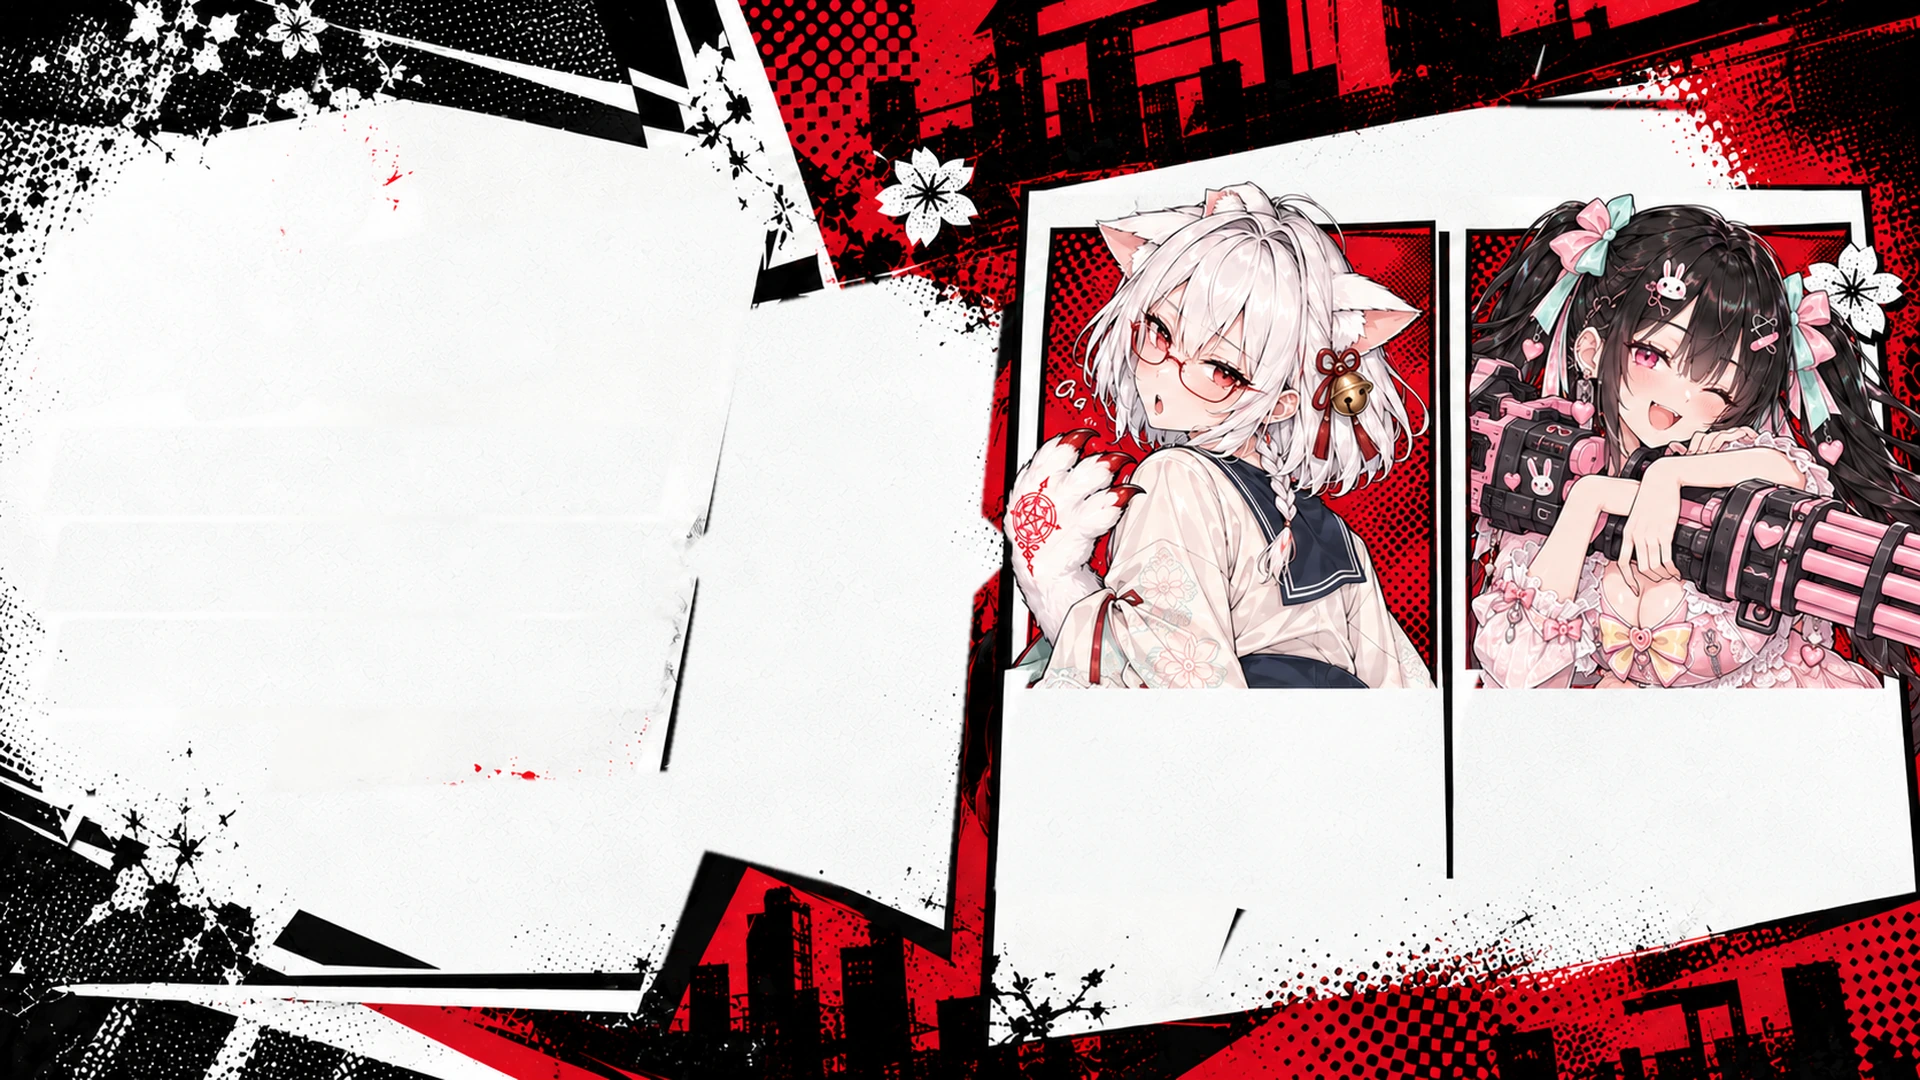
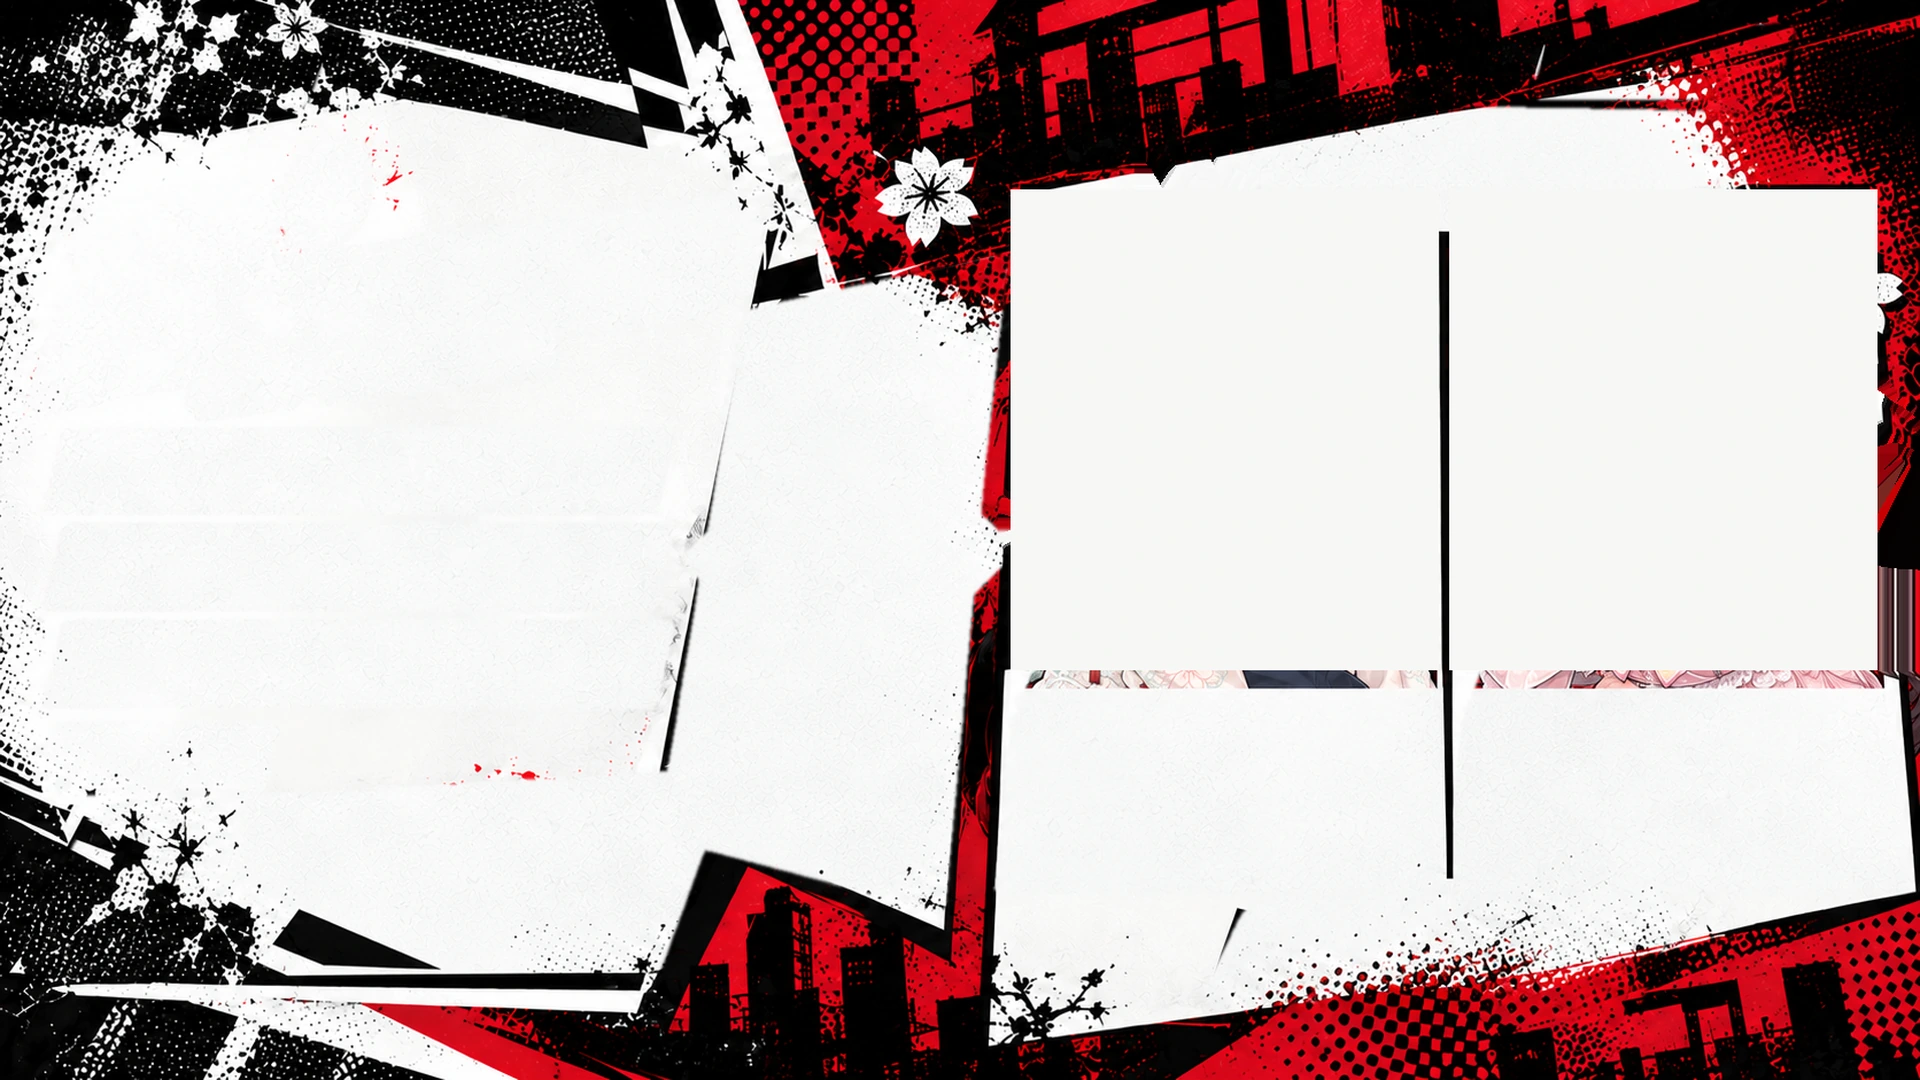
第九批前几项：选关换位不露底图头像、设置说法和音乐/音效、必杀 OK 提示、必杀指哪打哪
- 选关底图 sel_plate 去掉烤进去的两人头像（r20_import.py plate：窗口涂纸白，伸出部分补底色）
- 设置：「2P 由谁来打：AI 代打 / 手柄玩家 / 键盘玩家 / 不上场（单人）」，音量拆成总音量、音乐、音效
- 必杀好了：头像环上方盖章「必杀 OK!」+ 按键，第一次弹右键教学；AI 2P 不显示
- 必杀期间自动开火、镭射紧跟鼠标（cat active.aim 16）
- 文档 DESIGN / PLAN / LOG

Changed region(s): [[0.5, 0.1528, 1.0, 0.6417]]

diff --git a/src/ui/glhud.js b/src/ui/glhud.js
@@ -12,6 +12,7 @@ import { Stickers } from './stickers.js';
 import { Space } from './space.js';
 import { Hold } from './hold.js';
 import { Alerts } from './alerts.js';
+import { sfx } from '../core/audio.js';
 import { SIGNS, ledCanvas } from './ledsign.js';
 
 const VERT = 'varying vec2 vUv; void main(){ vUv = uv; gl_Position = projectionMatrix * modelViewMatrix * vec4(position, 1.0); }';
@@ -215,6 +216,9 @@ class Panel {
       tag: new Text(65), name: new Text(65), lv: new Text(65), hp: new Text(65, { sw: 0.12 }),
       key: new Text(65, { color: '#121012', stroke: null, italic: false }), ammo: new Text(65, { shadow: '#d8141e', sw: 0.14 }), ammoMax: new Text(65, { sw: 0.14 }),
     };
+    // her special is ready: a badge stamped over her ring until she uses it (DESIGN「必杀」: you must see it at once)
+    this.rdy = new Text(66, { color: '#ffffff', shadow: '#d8141e', sw: 0.16 }); this.rdyK = new Text(66, { color: '#fff36a', sw: 0.18 });
+    this.rdy.m.visible = this.rdyK.m.visible = false; this.rdyT = 0; this.wasReady = false;
     // Fever: three gauges of six segments, each with its icon, label and level
     this.fv = FEVER_KEYS.map((k, i) => {
       const F = D.fever[i], c = new THREE.Color(B.colors.fever[k]);
@@ -236,7 +240,7 @@ class Panel {
       for (let i = 0; i < n; i++) this.ticks.push(picture(this.tali.ready, 63, i * 0.21));
     }
     for (const m of [this.layer, this.face, this.ring, this.hp, this.heart, this.ammoIcon, ...this.ticks, ...Object.values(this.t).map((x) => x.m),
-      ...this.fv.flatMap((f) => [f.icon, ...f.segs, f.label.m, f.lv.m])]) if (m) g.add(m);
+      ...this.fv.flatMap((f) => [f.icon, ...f.segs, f.label.m, f.lv.m]), this.rdy.m, this.rdyK.m]) if (m) g.add(m);
     this.last = {}; this.lag = 1; this.shake = 0; this.faceKey = ''; this.faceT = 0; this.faceHold = 0; this.event = null; this.lastCombo = 0;
   }
   who() { return this.cat ? 'cat' : 'pink'; }
@@ -307,6 +311,23 @@ class Panel {
     // skill ring
     const RU = this.ring.material.uniforms;
     RU.fill.value = p.activeOn ? p.activeT / p.a.dur : p.charge; RU.time.value = t; RU.full.value = p.charge >= 1 && !p.activeOn ? 1 : 0; RU.on.value = p.activeOn ? 1 : 0;
+    // the ready badge (a player's girl only: the AI fires hers by herself): stamped in with a sound, then it keeps bouncing
+    const kind = p.ctrl?.kind, ready = p.charge >= 1 && !p.activeOn && g.combat && !!kind && kind !== 'ai' && p.state !== 'down';
+    if (ready && !this.wasReady) { this.rdyT = 0; sfx.stamp(); if (p.slot === 0 && kind === 'mouse') g.hud.tutorial('skill'); }
+    this.wasReady = ready;
+    this.rdy.m.visible = this.rdyK.m.visible = ready;
+    if (ready) {
+      this.rdyT += dt;
+      const rc = this.D.ring.c, dir = p.slot ? -1 : 1, deg = -7 * dir;
+      const x = L.x(rc[0] + dir * 56, this.an), y = L.y(rc[1] - this.D.ring.r1 - 56, this.an);
+      const pop = this.rdyT < 0.16 ? 2 - this.rdyT / 0.16 : 1 + 0.07 * Math.sin(t * 9);
+      this.rdy.set({ zh: '必杀 OK!', ja: '必殺 OK!', en: 'SKILL OK!' }[lang] || 'SKILL OK!', 54 * s, '#ffffff', 360 * s);
+      this.rdy.at(x, y, deg, pop);
+      this.rdy.m.material.uniforms.flash.value = this.rdyT < 0.2 ? 1 - this.rdyT / 0.2 : Math.sin(t * 9) > 0.92 ? 0.35 : 0;
+      const key = kind === 'pad' ? 'Y / RB' : kind === 'keys' ? 'Backspace' : ({ zh: '▶ 右键发动', ja: '▶ 右クリック', en: '▶ RIGHT CLICK' }[lang] || '▶ RIGHT CLICK');
+      this.rdyK.set(key, 30 * s, '#fff36a', 360 * s);
+      this.rdyK.at(x + dir * 10 * s, y - 50 * s, deg, 1);
+    }
     // texts
     this.text('tag', p.slot ? '2P' : '1P');
     const nb = this.D.text.name.box, lb = this.D.text.lv.box;

diff --git a/src/core/settings.js b/src/core/settings.js
@@ -52,8 +52,14 @@ export function mountSettings(G, act) {
     row(L('全屏', 'Fullscreen', 'フルスクリーン'), [[document.fullscreenElement ? 'ON' : 'OFF', toggleFullscreen, !!document.fullscreenElement]]);
     row(L('渲染精度', 'Render scale', '描画解像度'), [0.5, 0.75, 1, 1.25].map((v) => [`${v * 100}%`, () => { SET.scale = v; act.resize(); }, SET.scale === v]));
     row(L('HUD 范围', 'HUD frame', 'HUD 範囲'), [['16:9', () => { SET.hud = '16:9'; act.resize(); }, SET.hud === '16:9'], ['21:9', () => { SET.hud = '21:9'; act.resize(); }, SET.hud === '21:9'], [L('全宽', 'Full', '全幅'), () => { SET.hud = 'full'; act.resize(); }, SET.hud === 'full']]);
-    row('2P', [['AI', () => act.setP2('ai'), SET.p2 === 'ai'], [L('手柄', 'Gamepad', 'パッド'), () => act.setP2('pad'), SET.p2 === 'pad'], [L('键盘 ←↑→↓', 'Keys ←↑→↓', 'キー ←↑→↓'), () => act.setP2('keys'), SET.p2 === 'keys'], [L('关', 'Off', 'オフ'), () => act.setP2('off'), SET.p2 === 'off']]);
-    row(L('音量', 'Volume', '音量'), [['−', () => { SET.volume = Math.max(0, +(SET.volume - 0.1).toFixed(1)); setVolume(SET.volume); }], [`${Math.round(getVolume() * 100)}%`, () => setMuted(!isMuted()), !isMuted()], ['+', () => { SET.volume = Math.min(1, +(SET.volume + 0.1).toFixed(1)); setVolume(SET.volume); }]]);
+    // who plays the second girl: the AI, a second player (pad / keys), or nobody (she stays out: solo)
+    row(L('2P 由谁来打', '2P is played by', '2P の操作'), [[L('AI 代打', 'AI', 'AI'), () => act.setP2('ai'), SET.p2 === 'ai'], [L('手柄玩家', 'Gamepad', 'パッド'), () => act.setP2('pad'), SET.p2 === 'pad'], [L('键盘玩家 ←↑→↓', 'Keys ←↑→↓', 'キー ←↑→↓'), () => act.setP2('keys'), SET.p2 === 'keys'], [L('不上场（单人）', 'Nobody (solo)', '出撃しない（ソロ）'), () => act.setP2('off'), SET.p2 === 'off']]);
+    // volumes: the total, then the music and the sound effects on their own (the middle button mutes / unmutes)
+    const step = (key, d, apply) => { SET[key] = Math.max(0, Math.min(1, +(SET[key] + d).toFixed(1))); apply(); };
+    const music = () => setMusicVolume(SET.bgmOn === false ? 0 : SET.bgm), effects = () => setSfxVolume(SET.sfxOn === false ? 0 : SET.sfx);
+    row(L('总音量', 'Volume', '全体音量'), [['−', () => step('volume', -0.1, () => setVolume(SET.volume))], [`${Math.round(getVolume() * 100)}%`, () => setMuted(!isMuted()), !isMuted()], ['+', () => step('volume', 0.1, () => setVolume(SET.volume))]]);
+    row(L('音乐', 'Music', 'BGM'), [['−', () => step('bgm', -0.1, music)], [`${Math.round(SET.bgm * 100)}%`, () => { SET.bgmOn = SET.bgmOn === false; music(); }, SET.bgmOn !== false], ['+', () => step('bgm', 0.1, music)]]);
+    row(L('音效', 'Sound effects', '効果音'), [['−', () => step('sfx', -0.1, effects)], [`${Math.round(SET.sfx * 100)}%`, () => { SET.sfxOn = SET.sfxOn === false; effects(); }, SET.sfxOn !== false], ['+', () => step('sfx', 0.1, effects)]]);
     row(L('语言', 'Language', '言語'), LANGS.map(([k, n]) => [n, () => setLang(k), k === lang]));
     row('', [[L('▶ 继续', '▶ Resume', '▶ 再開'), close], ...(G.game ? [[L('放弃本话 · 回选关', 'Quit to chapters', '章選択へ戻る'), () => { close(); act.select(); }]] : []), [L('回到标题', 'Title', 'タイトル'), () => { close(); act.title(); }], [L('调试', 'Debug', 'デバッグ'), () => { close(); act.debug(); }]]);
     const info = document.createElement('div'); info.className = 'sinfo';

diff --git a/src/battle/player.js b/src/battle/player.js
@@ -174,7 +174,7 @@ export class Player {
     this.muzzle.setLevel(FEVER_KEYS.reduce((s, k) => s + this.fever.level(k), 0) / (FEVER_KEYS.length * T.fever.maxLevel), this.fever.full, this.activeOn);
     this.muzzle.update(dt, t);
     const busy = this.state === 'run' || this.state === 'victory' || this.state === 'away' || !g.combat;
-    // aim point: snaps to the controller, except while beaming (heavy, slow reticle)
+    // aim point: snaps to the controller; while beaming it follows close behind (a touch of weight, still where you point)
     if (c) {
       if (this.beaming) { const k = 1 - Math.exp(-dt * this.a.aim); this.aimX += (c.x - this.aimX) * k; this.aimY += (c.y - this.aimY) * k; } else { this.aimX = c.x; this.aimY = c.y; }
     }
@@ -297,7 +297,7 @@ export class Player {
 
   updateGun(dt, t) {
     const g = this.game, c = this.ctrl, w = this.w;
-    if (!c.fire || this.fireCD > 0) return;
+    if (!(c.fire || this.activeOn) || this.fireCD > 0) return;   // her special fires by itself: just point (DESIGN「必杀」)
     if (this.ammo <= 0 && !this.gatling) { sfx.empty(); this.startReload(1); return; }
     this.fireCD += this.gatling ? this.a.rate : w.rate;
     if (this.fireCD < 0) this.fireCD = 0;

diff --git a/tools/rounds/r20_import.py b/tools/rounds/r20_import.py
@@ -21,6 +21,7 @@ WIN = {"cat": (880, 165, 1253, 584), "pink": (1262, 165, 1635, 584)}
 SIDES = {"cat": ("left", "top"), "pink": ("top", "right")}
 CUT = {"cat": RAW / "sel_cat_fit.png", "pink": RAW / "sel_pink.png"}
 OVER = 56     # how far a girl may stick out over the frame (left, top, right); never below: the name bar sits there
+PAPER = (247, 247, 246)   # the plate's paper white (under the card pictures)
 # bits of a girl over the tabs that the Codex cut-out missed (the cat's ear tips), mockup px: they belong to her picture
 EXTRA = {"cat": [[[988, 131], [1007, 134], [1056, 166], [990, 168]], [[1044, 150], [1066, 145], [1106, 171], [1044, 173]]]}
 
@@ -216,8 +217,23 @@ def plate():
     fill = np.asarray(Image.open(RAW / "sel_fill.png").convert("RGB").resize(mock.shape[1::-1], Image.LANCZOS)).astype(np.float32)
     m = np.asarray(Image.open(ROOT / "art" / "ref" / "select_parts" / "plate_mask.png")) > 0
     w = ndimage.gaussian_filter(ndimage.binary_dilation(m, iterations=1).astype(np.float32), 1.2)[..., None]
-    out = Image.fromarray((mock * (1 - w) + fill * w).clip(0, 255).astype(np.uint8)).resize((1920, 1080), Image.LANCZOS)
-    save("sel_plate", out)
+    out = mock * (1 - w) + fill * w
+    # the girls belong to their card pictures (they trade places on a 1P / 2P swap), so the plate under them is bare: paper inside
+    # the card windows, and where a girl sticks out of her window (ears, bows, the paw) the background around her (nearest colour)
+    hole = np.zeros(mock.shape[:2], bool); win = np.zeros_like(hole)
+    for who, (x0, y0, x1, y1) in WIN.items():
+        cut = np.asarray(Image.open(CUT[who]).convert("RGBA"))[..., 3]
+        sd = SIDES[who]
+        X0, Y0, X1, Y1 = x0 - (OVER if "left" in sd else 0), y0 - OVER, x1 + (OVER if "right" in sd else 0), y1
+        a = ndimage.grey_dilation(cut[Y0:Y1, X0:X1], size=5) > 10
+        if who in EXTRA: a |= poly_mask(a.shape, EXTRA[who], X0, Y0)
+        hole[Y0:Y1, X0:X1] |= a
+        win[y0:y1, x0:x1] = True
+    out[win] = PAPER
+    over = hole & ~win
+    iy, ix = ndimage.distance_transform_edt(hole | win, return_distances=False, return_indices=True)
+    out[over] = out[iy[over], ix[over]]
+    save("sel_plate", Image.fromarray(out.clip(0, 255).astype(np.uint8)).resize((1920, 1080), Image.LANCZOS))
 
 if __name__ == "__main__":
     what = sys.argv[1:] or ["base", "plate", "cards", "parts", "pieces"]

diff --git a/docs/DESIGN.md b/docs/DESIGN.md
@@ -23,7 +23,7 @@
 - 另一条路用户允许过但没批：咒印随场景 / 战斗状态变化，前提是应景、有设定（东方咒符 × 西方魔法阵）。
 
 ## 场景结构
-1. 标题 + 设置：一个画面。
+1. 标题 + 设置：一个画面。设置里的说法要让人一看就懂（2026-10-17 用户第九批："2P 关是啥意思"）：「2P 由谁来打：AI 代打 / 手柄玩家 / 键盘玩家 / 不上场（单人）」；音量分总音量、音乐、音效三项。
 2. 选关 + 背包 + 换装：一个画面，像翻彩色漫画。
 3. 大关：可配置的一串步骤，例如开场漫画 → 小关 → 漫画 → 小关 → 漫画 → Boss → 结尾漫画。
    - 小关之间、进第一个小关前、Boss 打完，都是漫画转场；
@@ -110,9 +110,11 @@
   - 射速快、弹匣大、单发低、有穿透，适合打一群；持续打同一目标不断叠硬直。
   - 主动：无限弹匣加特林，伤害射速都上来，更易硬直，命中缓慢回血。充能靠命中。
   - **两人的必杀期间都无敌，一直站着打，不会因为松开按键就取消、回掩体**（2026-10-17 用户：让玩家爽快地射）。
+  - **必杀期间指哪打哪**（2026-10-17 用户第九批）：右键放出来以后自动开火（加特林自己连射、镭射自己持续），准星直接跟着鼠标走，不用再按左键。
+  - **必杀好了要一眼看到**（2026-10-17 用户第九批）：她头像环上方盖章弹出「必杀 OK!」+ 按键（右键发动 / Y·RB / Backspace），一直跳到放出去为止；第一次好的时候中间再弹一次"右键：必杀技!"；AI 代打的 2P 不显示（她自己会放）。
 - **灵能攻击流（鬼手，猫娘，致敬地狱老师）**：
   - 六字真言当子弹：单发高、杂鱼几发死，持续打同一目标伤害递增，射速一般，硬直长。
-  - 主动：冲击波 / 真言镭射（贯穿），准星变慢，高伤；必杀期间无敌、不会中断（上面那条）。充能靠时间 + 击杀，慢。
+  - 主动：冲击波 / 真言镭射（贯穿），高伤，镭射紧跟鼠标（略带一点重量，不是慢吞吞拖着走）；必杀期间无敌、不会中断（上面那条）。充能靠时间 + 击杀，慢。
 
 ## 局外（不做抽卡、CG 奖励、素材链、消耗品）
 - 唯一货币叫**伍德刀盾**（2026-10-17 用户第七批，一个字也不能少；"刀盾"单独用会撞某公司登记的迷因）：日文、英文用对应的梗和谐音（英文 What Da Dog Doin'，日文 ワッダドッグドゥーイン：都回到「刀盾」的出处 what the dog doing 的空耳）。打完发放（不按评价）：解锁背包道具（永久、无限次）、扩充背包格子。

diff --git a/docs/LOG.md b/docs/LOG.md
@@ -124,3 +124,5 @@
 - 用户（看了环）：不要文字提醒了，环就够了；快打环一直来回放大缩小，快躲环像耀斑、黑子爆发时不时亮一下；快躲环要把敌人包在里面（后半圈在敌人身后，只看到部分环和轨迹）；"走廊"上方加一个非常小的闪避示意（参考 POLICE LINE 灯牌），Codex 出几种，中日英轮换，前方高能反应 / 战斗人员也请避离之类的梗。做了：去掉所有字；快打环呼吸缩放；快躲环后半圈放进 3D 场景被怪挡住、卫星绕到后面也被挡、耀斑爆闪 + 光弧；R50 出了 12 种 LED 警示条样式，游戏里点阵画、每次切一种；教学卡换成同一套环的图。
 - 用户（看了 R49 结算效果图）：都不合格，新获得道具呢？专门找了十分规则规整、便于列表和元素扩充的结算页给你，你让 Codex 凭感觉排？你是 harness。做了：照目录页骨架自己定版式（刊头 + 竖排 RESULT + 封面格 + 条目行 + 特集栏 + 两栏点线列表），写进代码，条目按数据重复；R51 只让 Codex 画无字插画。
 - 用户（看了新结算页）：道具只显示新获得的，不要已持有的；"书包加成"改成存钱罐写它自己的加成；道具和章节解锁要写好逻辑，只在第一次出现。做了：`st.newItems`（首通才有、已拥有的不给）、没新道具整栏不出；倍率按道具名一条一条；新章节只在第一次解锁时出现；去掉"已拥有"。
+- 用户第九批：交换 1P/2P 后面留着大头底图；序章开头漫画分镜还是没改；设置里"2P 关"看不懂、只有音量没有音效；必杀好了看不出来；必杀放出来后还要按左键才打，应该指哪打哪；书包要做（cost 上限升级、道具升级、E 装备、存钱罐 100 级 ×16、三段式道具说明，UI 出几个方案）。
+- 第九批前几项做完：选关底图去掉烤进去的头像；设置改说法、加音乐 / 音效；必杀好了头像环上方盖章「必杀 OK!」+ 按键；必杀期间自动开火、镭射紧跟鼠标。

diff --git a/docs/PLAN.md b/docs/PLAN.md
@@ -72,6 +72,15 @@
     - 实机和效果图逐像素对照（现在大致对齐，文字字号、Fever 标签位置还有偏差）。
   - 算完：用户确认效果图，实机和效果图对照误差 1～2px，HUD 会动。
 
+## 现在（2026-10-17 用户第九批，DESIGN 对应条目已写）
+- [x] **交换 1P/2P 后面露出大头底图**：选关底图 `sel_plate` 里烤着两人的头像，两张卡换位时从缝里露出来。
+  - 结果：`tools/rounds/r20_import.py plate` 把卡片窗口涂成纸白、人物伸出窗口的部分用周围底色补上，人像只由会动的卡片画。
+- [ ] **序章开头漫画分镜**：R47 重画的四页还没换进游戏（镜头：气泡脑内 / 越肩看手机或书；规整方格）。
+- [x] **设置说法**：「2P 由谁来打：AI 代打 / 手柄玩家 / 键盘玩家 / 不上场（单人）」；音量拆成总音量、音乐、音效。
+- [x] **必杀好了的提示**：头像环上方盖章「必杀 OK!」+ 按键，一直跳到放出去；第一次好时弹右键教学提示；AI 2P 不显示。
+- [x] **必杀手感**：放出来后自动开火（加特林不用按左键），镭射紧跟鼠标（`characters/cat.json` active.aim 3.2 → 16）。
+- [ ] **书包**：伍德刀盾升级书包 cost 上限（1→20）和道具等级；点 E 装备 / 取消，装备 cost 合计不超过上限；存钱罐 cost 恒 1、最高 100 级（×1.20 → ×16）；每个道具点开三段式说明（黑魂 / 老头环那种）；UI 先出几个效果图方案给用户挑（版式由 Claude 定、条目可扩充，Codex 只出风格和素材）。
+
 ## 现在（2026-10-17 用户第八批，DESIGN 对应条目已写）
 - [x] **选关显示修好**：小关行、解锁状态、最短时间显示正确（第一行不见了）。
   - 结果：选中行的 CSS `translate !important` 顶掉了它自己的行位置，第一行沉到第二行下面；改成 JS 一起算位置。已解锁的行一直亮、显示最短时间。
